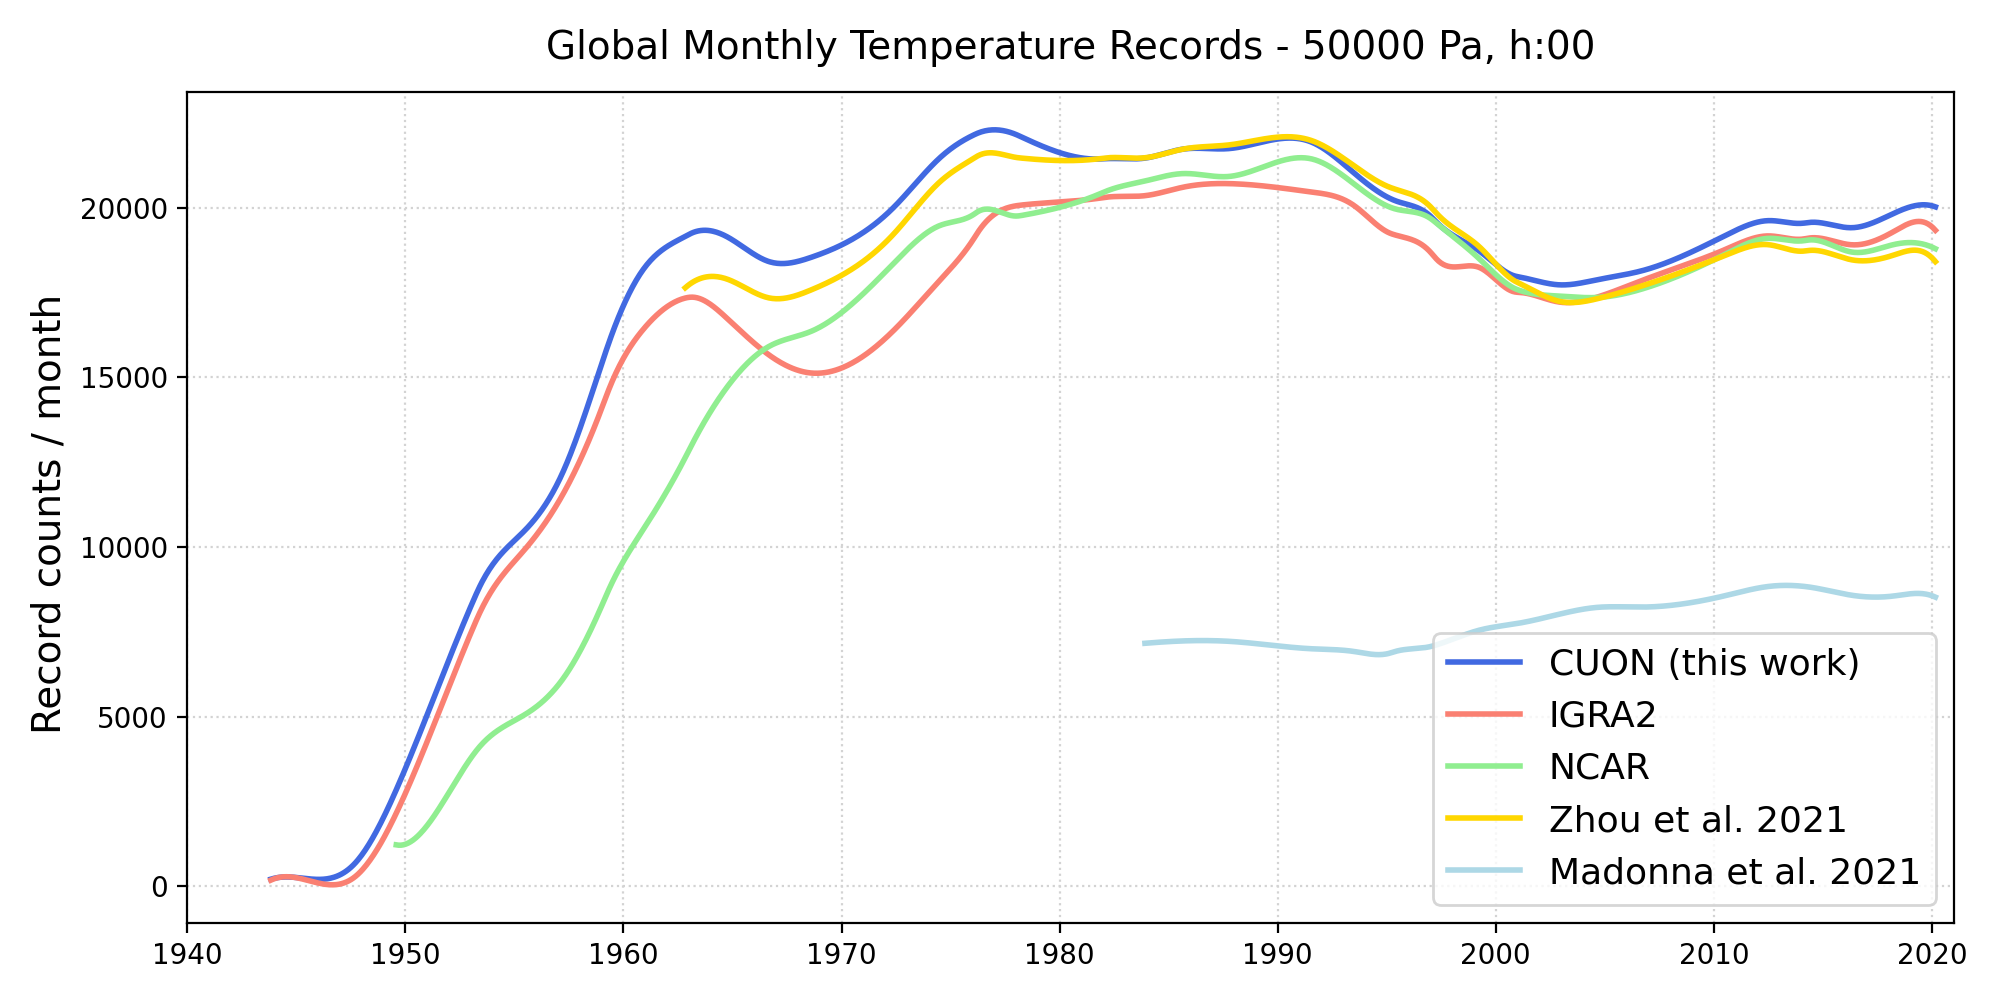
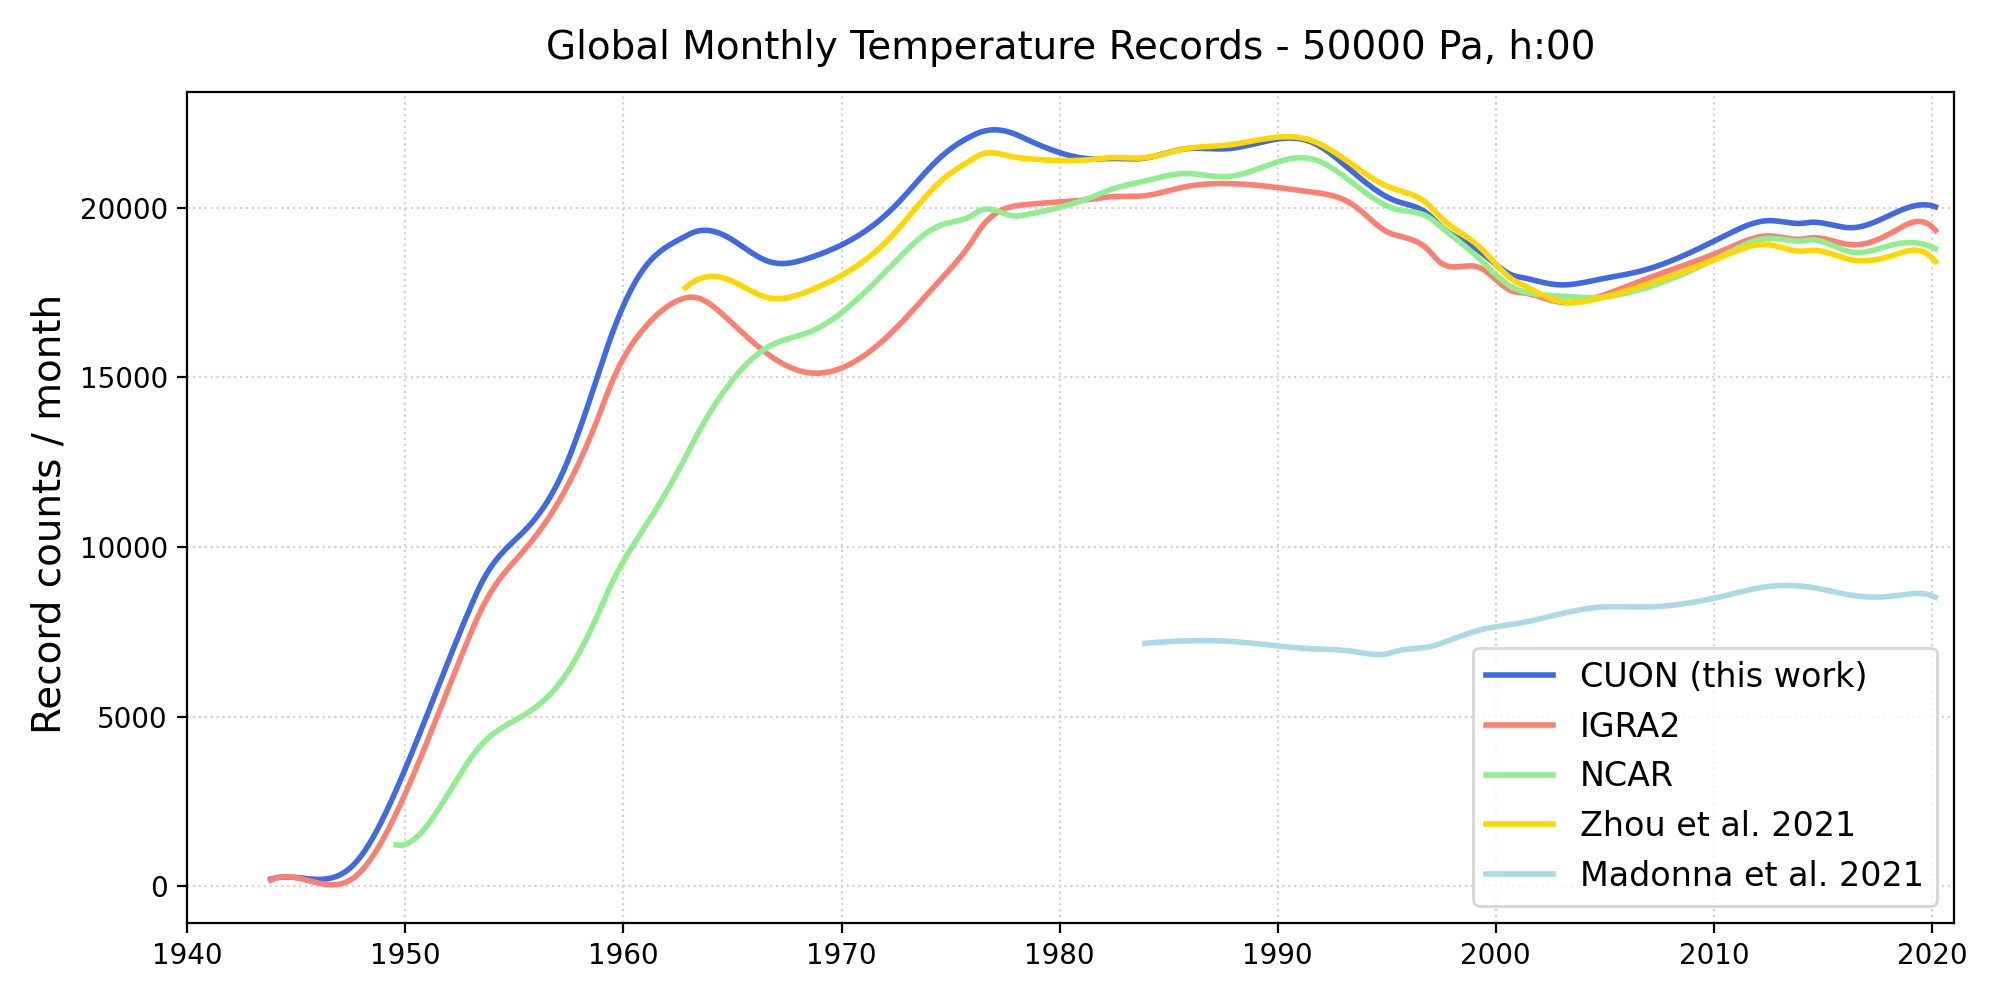
Fixed legend

Changed region(s): [[0.713, 0.62, 0.961, 0.899]]

diff --git a/CEUAS/papers/comprehensive_bias_adjusted/merging_dataset_comparison_RUN.py b/CEUAS/papers/comprehensive_bias_adjusted/merging_dataset_comparison_RUN.py
@@ -329,7 +329,7 @@ else:
         
             
         plt.grid( ls=':' , color = 'lightgray')
-        plt.legend(fontsize = fs-1, loc = 'lower right')    
+        plt.legend(fontsize = fs-2, loc = 'lower right')    
         
         if h=='0':
             h = '00'
@@ -344,7 +344,7 @@ else:
         
 
         plt.savefig('Plots/merging_total_monthly_temperature_' + str(p) +'_' + h + '_' + label + '.png', dpi = 200)
-        #plt.show()        
+        plt.show()        
         
         
     for p in  [70000,50000]: #10000,50000,70000,85000
